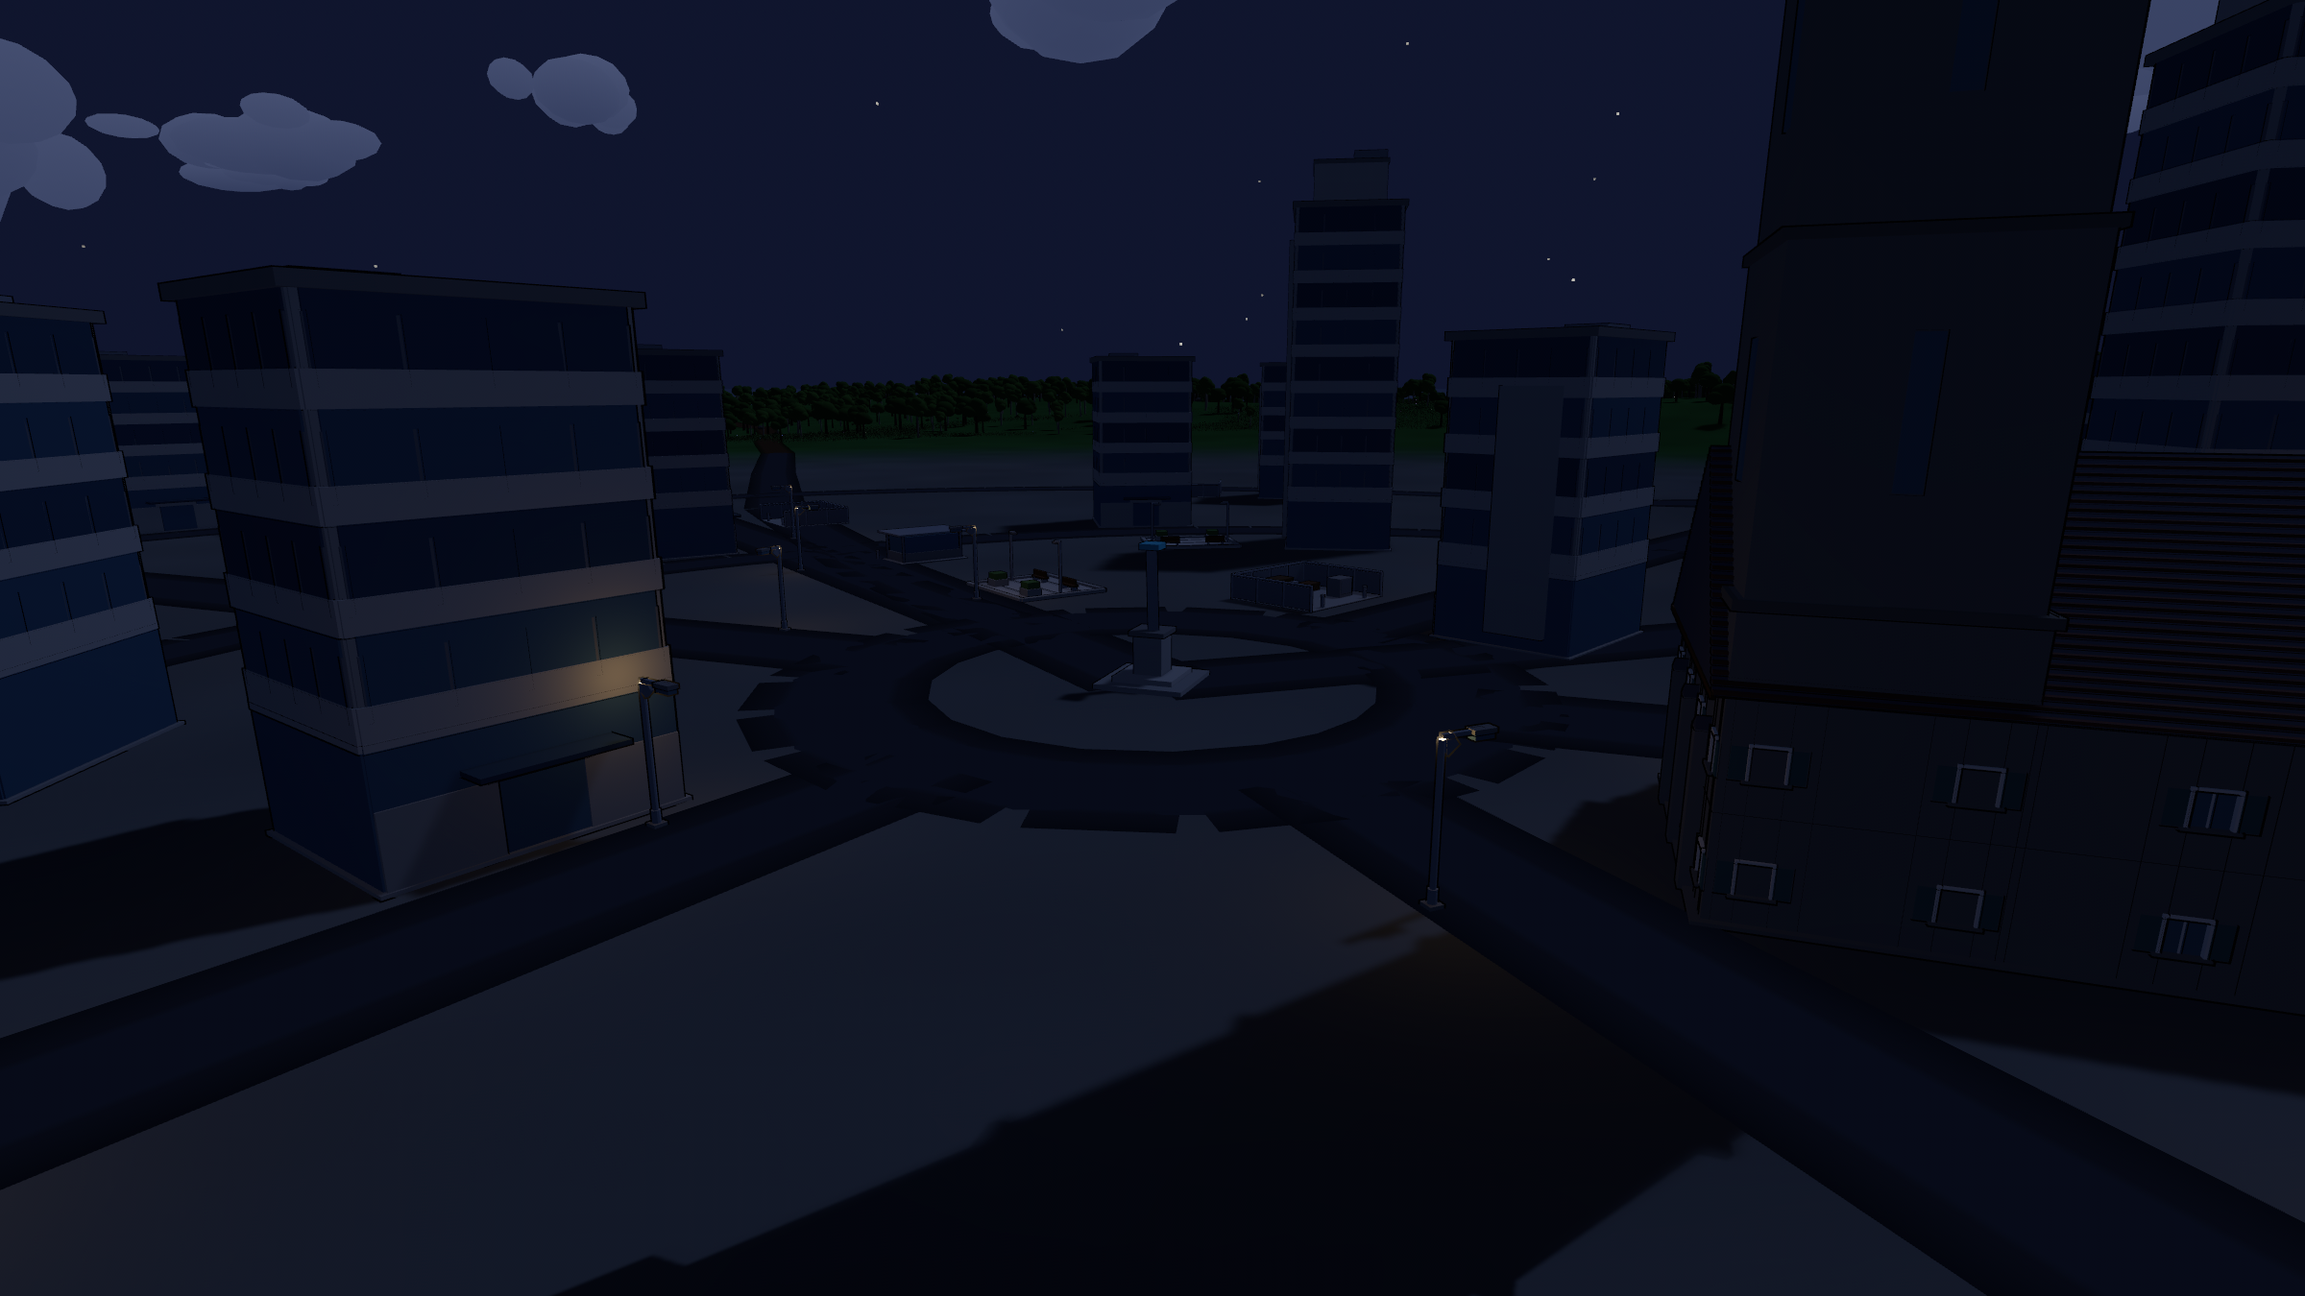
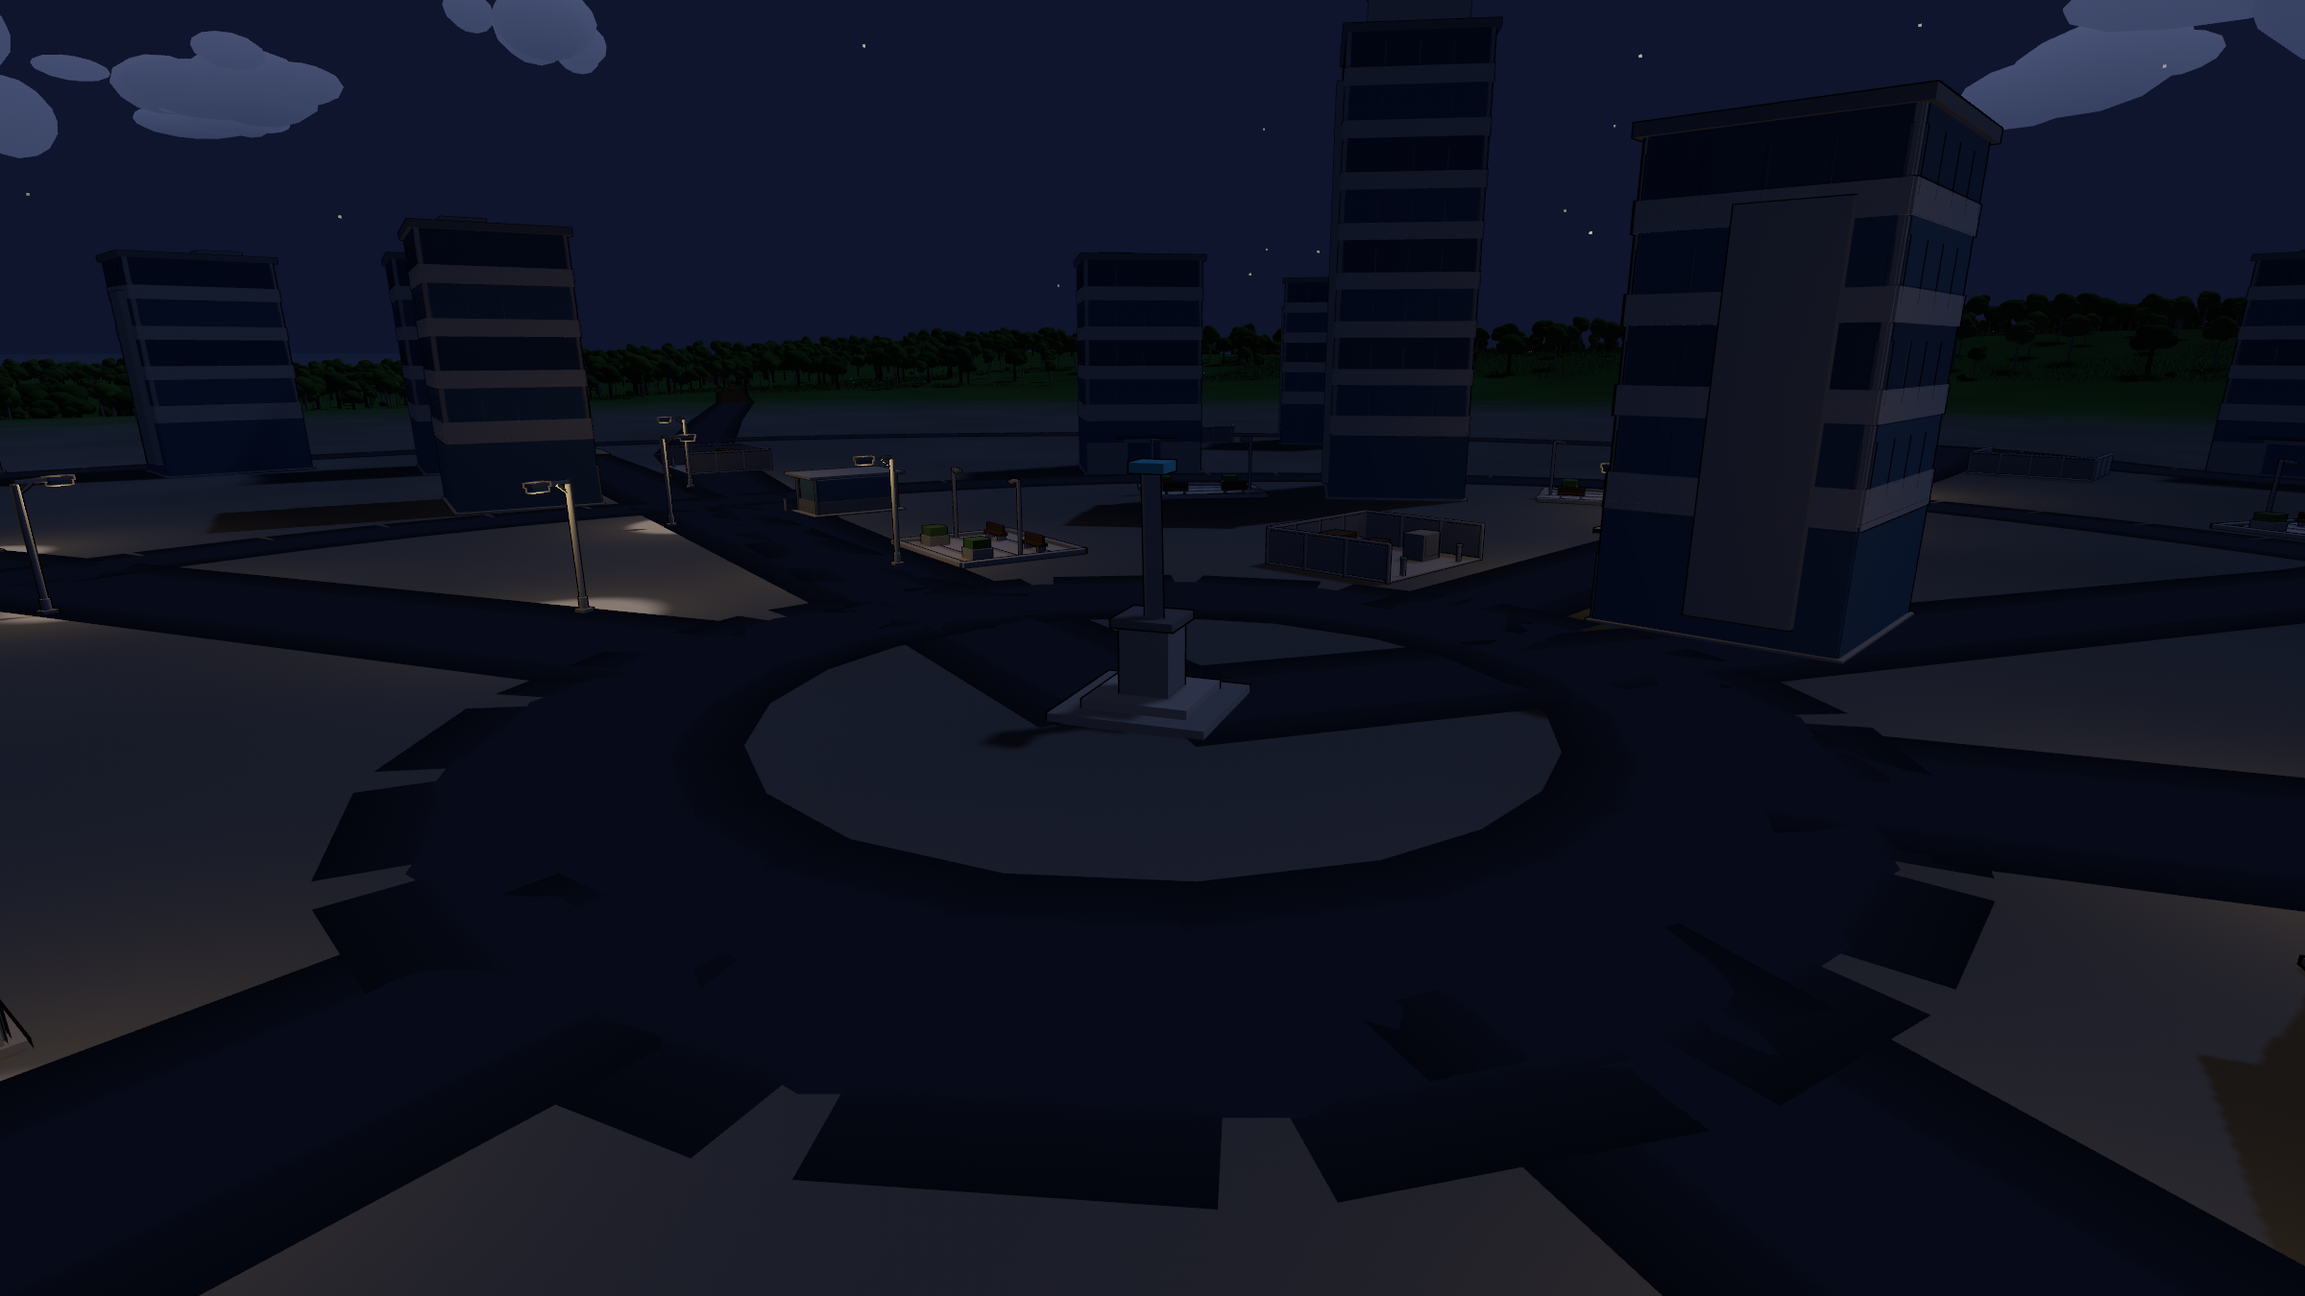
Put the lamplight in the lamp, and make the kind list actually exhaustive
The lights came out of the top of the column. A city fitting reaches 1.5 m out
over the carriageway and the lamp is on the END of that arm, and the point light
was hung straight up from the foot - so the post glowed while the head beside it
stayed dark. It sits on the arm now, and the arm's reach joins the contract
Blender writes and the game reads back.

They were also very dim, which they were: Bevy's own default point light is a
million lumens and these were 120,000. A street lamp and a village lantern no
longer share a number either - one is a made thing on a pole meant to light a
carriageway and the other is somebody's lamp outside their door.

Building::ALL was described as something a future variant could not evade, which
was a stronger claim than the code backed - Rust compiles a twentieth variant
happily while the array stays at nineteen. Building::place is an exhaustive match
now, so the compiler will not accept a new kind until it has a place, and
the_list_of_kinds_is_every_kind fails until ALL and KINDS have been extended too.

And a failure worth recording: Codex flagged the torn junctions, I found the
cause - a ring is a chain of rectangles, so a curve gaps on the outside and
overlaps on the inside - wrote the standard polyline mitre for it, and made it
much worse. A starburst of spikes at every junction. Reverted, with the attempt
and why it failed written into `pave`. Doing it properly means building the
[…]

diff --git a/src/world/lamp.rs b/src/world/lamp.rs
@@ -32,13 +32,21 @@ const MOST_LIT: usize = 20;
 /// How far a lamp can be from the warden and still be lit, in metres.
 const LIT_WITHIN: f32 = 85.0;
 
-/// How bright a lamp burns, and how far its light carries.
+/// How bright each fitting burns, in lumens, and how far its light carries.
 ///
 /// Warm, because every other light in this world is daylight or a grey overcast, and
 /// the one thing a lamp has to do is feel like a different KIND of light from the
-/// sky. Not so bright that a street at night stops being night.
-const BURNS: f32 = 120_000.0;
-const CARRIES: f32 = 22.0;
+/// sky.
+///
+/// These were both a tenth of this and reported as "very dim", which they were:
+/// Bevy's own default point light is a million lumens, so 120,000 is a candle. A
+/// street lamp is a made thing on a pole meant to light a carriageway; a village
+/// lantern is somebody's lamp outside their door and is meant to be the smaller of
+/// the two, so they no longer share a number.
+const STREET_BURNS: f32 = 900_000.0;
+const POST_BURNS: f32 = 380_000.0;
+const STREET_CARRIES: f32 = 34.0;
+const POST_CARRIES: f32 = 20.0;
 const LAMPLIGHT: Color = Color::srgb(1.0, 0.82, 0.55);
 
 /// How high the sun has to sink before the lamps come on.
@@ -55,6 +63,16 @@ const FULLY_LIT_AT: f32 = -0.04;
 pub struct Lamp {
     /// Where its light hangs above its foot.
     head: f32,
+    /// How far out along the arm the head is.
+    ///
+    /// # The light was coming out of the column
+    ///
+    /// A city fitting reaches 1.5 m out over the carriageway and the lamp is on the
+    /// END of that arm. The light was hung at `(0, head, 0)` - straight up from the
+    /// foot - so the glow came off the top of the post while the lamp head beside it
+    /// stayed dark, which reads as a bug rather than as a lamp. A village lantern
+    /// sits on top of its post and this is nought for it.
+    arm: f32,
 }
 
 /// The light hung on the lamp this is a child of.
@@ -78,16 +96,18 @@ pub fn stand_the_lamps(
         }
         for lamp in &layout.lamps {
             let ground = terrain.0.drawn_height(lamp.at.x, lamp.at.y);
+            let street = lamp.head > crate::world::town::POST_HEAD + 0.5;
             commands.spawn((
-                Lamp { head: lamp.head },
+                Lamp {
+                    head: lamp.head,
+                    arm: if street { crate::world::town::STREET_ARM } else { 0.0 },
+                },
                 crate::world::town::FromSite(*key),
-                SceneRoot(assets.load(GltfAssetLabel::Scene(0).from_asset(
-                    if lamp.head > crate::world::town::POST_HEAD + 0.5 {
-                        "models/lamp_street.glb"
-                    } else {
-                        "models/lamp_post.glb"
-                    },
-                ))),
+                SceneRoot(assets.load(GltfAssetLabel::Scene(0).from_asset(if street {
+                    "models/lamp_street.glb"
+                } else {
+                    "models/lamp_post.glb"
+                }))),
                 Transform::from_xyz(lamp.at.x, ground, lamp.at.y)
                     .with_rotation(Quat::from_rotation_y(lamp.turn)),
                 Visibility::default(),
@@ -113,10 +133,12 @@ pub fn light_them_at_night(
     let up = crate::util::smoothstep(LIT_BELOW, FULLY_LIT_AT, clock.sun_height());
 
     // The nearest few, which are the ones anybody is going to look at.
-    let mut near: Vec<(f32, Entity, f32)> = lamps
+    let mut near: Vec<(f32, Entity, f32, f32)> = lamps
         .iter()
-        .map(|(entity, at, lamp)| (at.translation().distance(here), entity, lamp.head))
-        .filter(|(away, _, _)| *away < LIT_WITHIN)
+        .map(|(entity, at, lamp)| {
+            (at.translation().distance(here), entity, lamp.head, lamp.arm)
+        })
+        .filter(|(away, ..)| *away < LIT_WITHIN)
         .collect();
     near.sort_by(|a, b| a.0.total_cmp(&b.0));
     near.truncate(MOST_LIT);
@@ -124,8 +146,8 @@ pub fn light_them_at_night(
     // Put out anything that is no longer in that list, and dim everything by day
     // rather than tearing the lights down and building them again at dusk.
     for (entity, of, mut light) in &mut lit {
-        if near.iter().any(|(_, lamp, _)| *lamp == of.parent()) {
-            light.intensity = BURNS * up;
+        if let Some((_, _, _, arm)) = near.iter().find(|(_, lamp, ..)| *lamp == of.parent()) {
+            light.intensity = if *arm > 0.0 { STREET_BURNS } else { POST_BURNS } * up;
         } else {
             commands.entity(entity).despawn();
         }
@@ -134,23 +156,25 @@ pub fn light_them_at_night(
     if up <= 0.0 {
         return;
     }
-    for (_, lamp, head) in near {
+    for (_, lamp, head, arm) in near {
         if lit.iter().any(|(_, of, _)| of.parent() == lamp) {
             continue;
         }
+        let street = arm > 0.0;
         commands.entity(lamp).with_children(|on| {
             on.spawn((
                 Lit,
                 PointLight {
                     color: LAMPLIGHT,
-                    intensity: BURNS * up,
-                    range: CARRIES,
+                    intensity: if street { STREET_BURNS } else { POST_BURNS } * up,
+                    range: if street { STREET_CARRIES } else { POST_CARRIES },
                     // A hundred and change of these and shadows are the whole frame
                     // budget. The fitting casts none; what it lights does.
                     shadows_enabled: false,
                     ..default()
                 },
-                Transform::from_xyz(0.0, head, 0.0),
+                // OUT ON THE ARM, which is where the head is.
+                Transform::from_xyz(arm, head, 0.0),
             ));
         });
     }
@@ -195,6 +219,7 @@ mod tests {
         for (key, ours) in [
             ("STREET_HEAD", crate::world::town::STREET_HEAD),
             ("POST_HEAD", crate::world::town::POST_HEAD),
+            ("STREET_ARM", crate::world::town::STREET_ARM),
         ] {
             assert!(
                 (read(key) - ours).abs() < 1.0e-3,

diff --git a/src/world/town.rs b/src/world/town.rs
@@ -430,6 +430,46 @@ impl Building {
     ///
     /// A landmark takes no lot and keeps no frontage: it stands in the open where
     /// people gather, which is what makes a node a node.
+    /// How many kinds there are.
+    const KINDS: usize = 19;
+
+    /// Where each kind sits in `ALL`.
+    ///
+    /// # Making the list actually exhaustive
+    ///
+    /// `ALL` on its own is a list somebody has to remember to extend, and Rust is
+    /// perfectly happy to compile a twentieth variant while the array stays at
+    /// nineteen - so "a future variant cannot evade it" was a stronger claim than the
+    /// code backed, which Codex was right to pick up.
+    ///
+    /// This match is EXHAUSTIVE, so the compiler will not accept a new variant until
+    /// somebody gives it a place. `the_list_of_kinds_is_every_kind` then checks that
+    /// every place from nought to `KINDS` is filled exactly once, which fails until
+    /// `ALL` and `KINDS` have been extended too. Neither half is enough alone.
+    fn place(self) -> usize {
+        match self {
+            Building::Cottage => 0,
+            Building::Townhouse => 1,
+            Building::Shop => 2,
+            Building::GuildHall => 3,
+            Building::CityBlock => 4,
+            Building::CityTower => 5,
+            Building::CitySpire => 6,
+            Building::MarketCross => 7,
+            Building::Well => 8,
+            Building::Monument => 9,
+            Building::Garden => 10,
+            Building::WorkYard => 11,
+            Building::Pen => 12,
+            Building::StoreYard => 13,
+            Building::Stall => 14,
+            Building::CityGreen => 15,
+            Building::CityService => 16,
+            Building::CityKiosk => 17,
+            Building::CityForecourt => 18,
+        }
+    }
+
     /// Every kind there is.
     ///
     /// Written once so a test cannot miss one. `every_building_has_a_model_on_disk`
@@ -437,7 +477,7 @@ impl Building {
     /// without being added to it - so the one guard that proves a `Building` names a
     /// file that exists stopped covering a third of them, silently, which is the
     /// only way that guard can fail.
-    pub const ALL: [Building; 19] = [
+    pub const ALL: [Building; Self::KINDS] = [
         Building::Cottage,
         Building::Townhouse,
         Building::Shop,
@@ -785,6 +825,9 @@ const LAMPS_OFF_THE_KERB: f32 = 1.1;
 /// `dev/art/lamp.py` - see `the_lamp_models_hang_their_light_where_the_game_thinks`.
 pub const STREET_HEAD: f32 = 5.6;
 pub const POST_HEAD: f32 = 3.1;
+/// How far a city fitting's arm reaches out over the carriageway, in metres. The
+/// head - and so the light - is on the end of it, not over the column.
+pub const STREET_ARM: f32 = 1.5;
 
 /// Stands lamps along a settlement's streets.
 ///
@@ -2056,6 +2099,28 @@ fn pave(streets: &[Street], terrain: &crate::world::terrain::Terrain, low: Vec2,
     let mut uvs: Vec<[f32; 2]> = Vec::new();
     let mut indices: Vec<u32> = Vec::new();
 
+    // The joints are NOT mitred, and one attempt at it is worth recording.
+    //
+    // A ring road is a chain of short straight pieces, each laid as its own rectangle
+    // square across its own direction. On a curve the outer edge of a rectangle is
+    // shorter than the arc it stands for and the inner edge is longer, so consecutive
+    // pieces gap on the outside and overlap on the inside - a row of triangular bites
+    // out of the kerb the whole way round the ring. Widening the ribbon with
+    // shoulders made a fault that was always there impossible to miss, and Codex
+    // called it the strongest remaining settlement defect. It is.
+    //
+    // The fix is the standard polyline mitre: where two pieces meet, both use one
+    // cross-section bisecting the turn, lengthened by 1/cos(half the turn) so the
+    // road keeps its width. I wrote it and it came out far worse than the sawtooth -
+    // a starburst of spikes at every junction, because the lengthening runs away
+    // where pieces meet near-perpendicular and because a ring meeting a radial has
+    // two neighbours at that point rather than one, so "which chain am I in" is not
+    // the question I was answering.
+    //
+    // Reverted rather than left in. The sawtooth is a fault; the spikes were a
+    // bigger one. Doing it properly means building the CHAINS first - deciding which
+    // pieces are one road before laying any of them - which is a change to how a
+    // layout describes itself, not a change to how it is drawn.
     for street in streets {
         let run = street.to - street.from;
         let length = run.length();
@@ -3507,6 +3572,37 @@ mod tests {
 #[cfg(test)]
 mod doorstep {
     use super::*;
+
+    /// `ALL` really is every kind.
+    ///
+    /// `Building::place` is an exhaustive match, so a new variant cannot be added
+    /// without being given a place; this then fails until it has been added to `ALL`
+    /// and `KINDS` as well. The two together are what make the artefact guard
+    /// exhaustive - `ALL` on its own is a list somebody has to remember.
+    #[test]
+    fn the_list_of_kinds_is_every_kind() {
+        let mut seen = vec![None; Building::KINDS];
+        for what in Building::ALL {
+            let place = what.place();
+            assert!(
+                place < Building::KINDS,
+                "{what:?} sits at {place}, past the end of a list of {}",
+                Building::KINDS,
+            );
+            assert!(
+                seen[place].is_none(),
+                "{what:?} and {:?} both claim place {place}",
+                seen[place].unwrap(),
+            );
+            seen[place] = Some(what);
+        }
+        for (place, what) in seen.iter().enumerate() {
+            assert!(
+                what.is_some(),
+                "nothing in ALL sits at place {place} - a kind has a place and is not on the list",
+            );
+        }
+    }
 
     /// A model's door lands where the doorway is.
     ///

diff --git a/dev/art/lamp.py b/dev/art/lamp.py
@@ -46,8 +46,10 @@ def street():
     parts.append(
         box((reach, 0.13, 0.13), (reach * 0.5, 0.0, STREET_HEAD + 0.05), "steel")
     )
+    # A stay under the arm. Small: at half a metre square this read as a diamond
+    # panel hanging off the column rather than as a bracket.
     parts.append(
-        box((0.5, 0.13, 0.5), (0.26, 0.0, STREET_HEAD - 0.22), "steel",
+        box((0.62, 0.07, 0.07), (0.31, 0.0, STREET_HEAD - 0.24), "steel",
             tilt=(0.0, math.radians(-38.0), 0.0))
     )
     at = (reach, 0.0, STREET_HEAD)

diff --git a/codex-suggestions/CLAUDE_REPLY.md b/codex-suggestions/CLAUDE_REPLY.md
@@ -242,6 +242,31 @@ figures, both families, in `9e579de`.
   on every triangle - are the right list. Paired looking-in/looking-out shots go in
   with it.
 
+### 2026-08-29 — CODEX_REVIEW 1420
+
+- **`Building::ALL` is not compiler-enforced.** You were right and my claim was
+  stronger than the code. Fixed rather than reworded: `Building::place` is an
+  exhaustive match giving each kind an index, so the compiler will not accept a new
+  variant until it has a place, and `the_list_of_kinds_is_every_kind` then fails
+  until `ALL` and `KINDS` have been extended too. Neither half is enough alone.
+  Checked it bites - a duplicated index reports "Pen and WorkYard both claim place 11".
+- **Torn junctions.** Confirmed at player height, and the cause is worse than
+  triangulation: a ring is a chain of short straight pieces each laid as its own
+  rectangle square across its own direction, so on a curve consecutive pieces gap on
+  the outside and overlap on the inside. A sawtooth the whole way round the ring.
+  My shoulders widened the ribbon and made a fault that was always there impossible
+  to miss.
+- **And I failed to fix it.** I wrote the standard polyline mitre and it came out far
+  worse - a starburst of spikes at every junction, because the 1/cos lengthening runs
+  away where pieces meet near-perpendicular, and because a ring meeting a radial has
+  two neighbours at that point rather than one, so "which chain am I in" is not the
+  question I was answering. Reverted, with the attempt and its reason recorded in
+  `pave`. Doing it properly means building the CHAINS first - deciding which pieces
+  are one road before laying any of them - which is a change to how a layout
+  describes itself rather than to how it is drawn. That is the next piece of V2 work
+  and I would rather do it deliberately than patch it.
+- **`city_entrance` continuity** is untested either way; it goes with the same pass.
+
 ### 2026-08-29 — V2, V7 and G1–G4
 
 - **Status:** deferred, pending the user's direction
